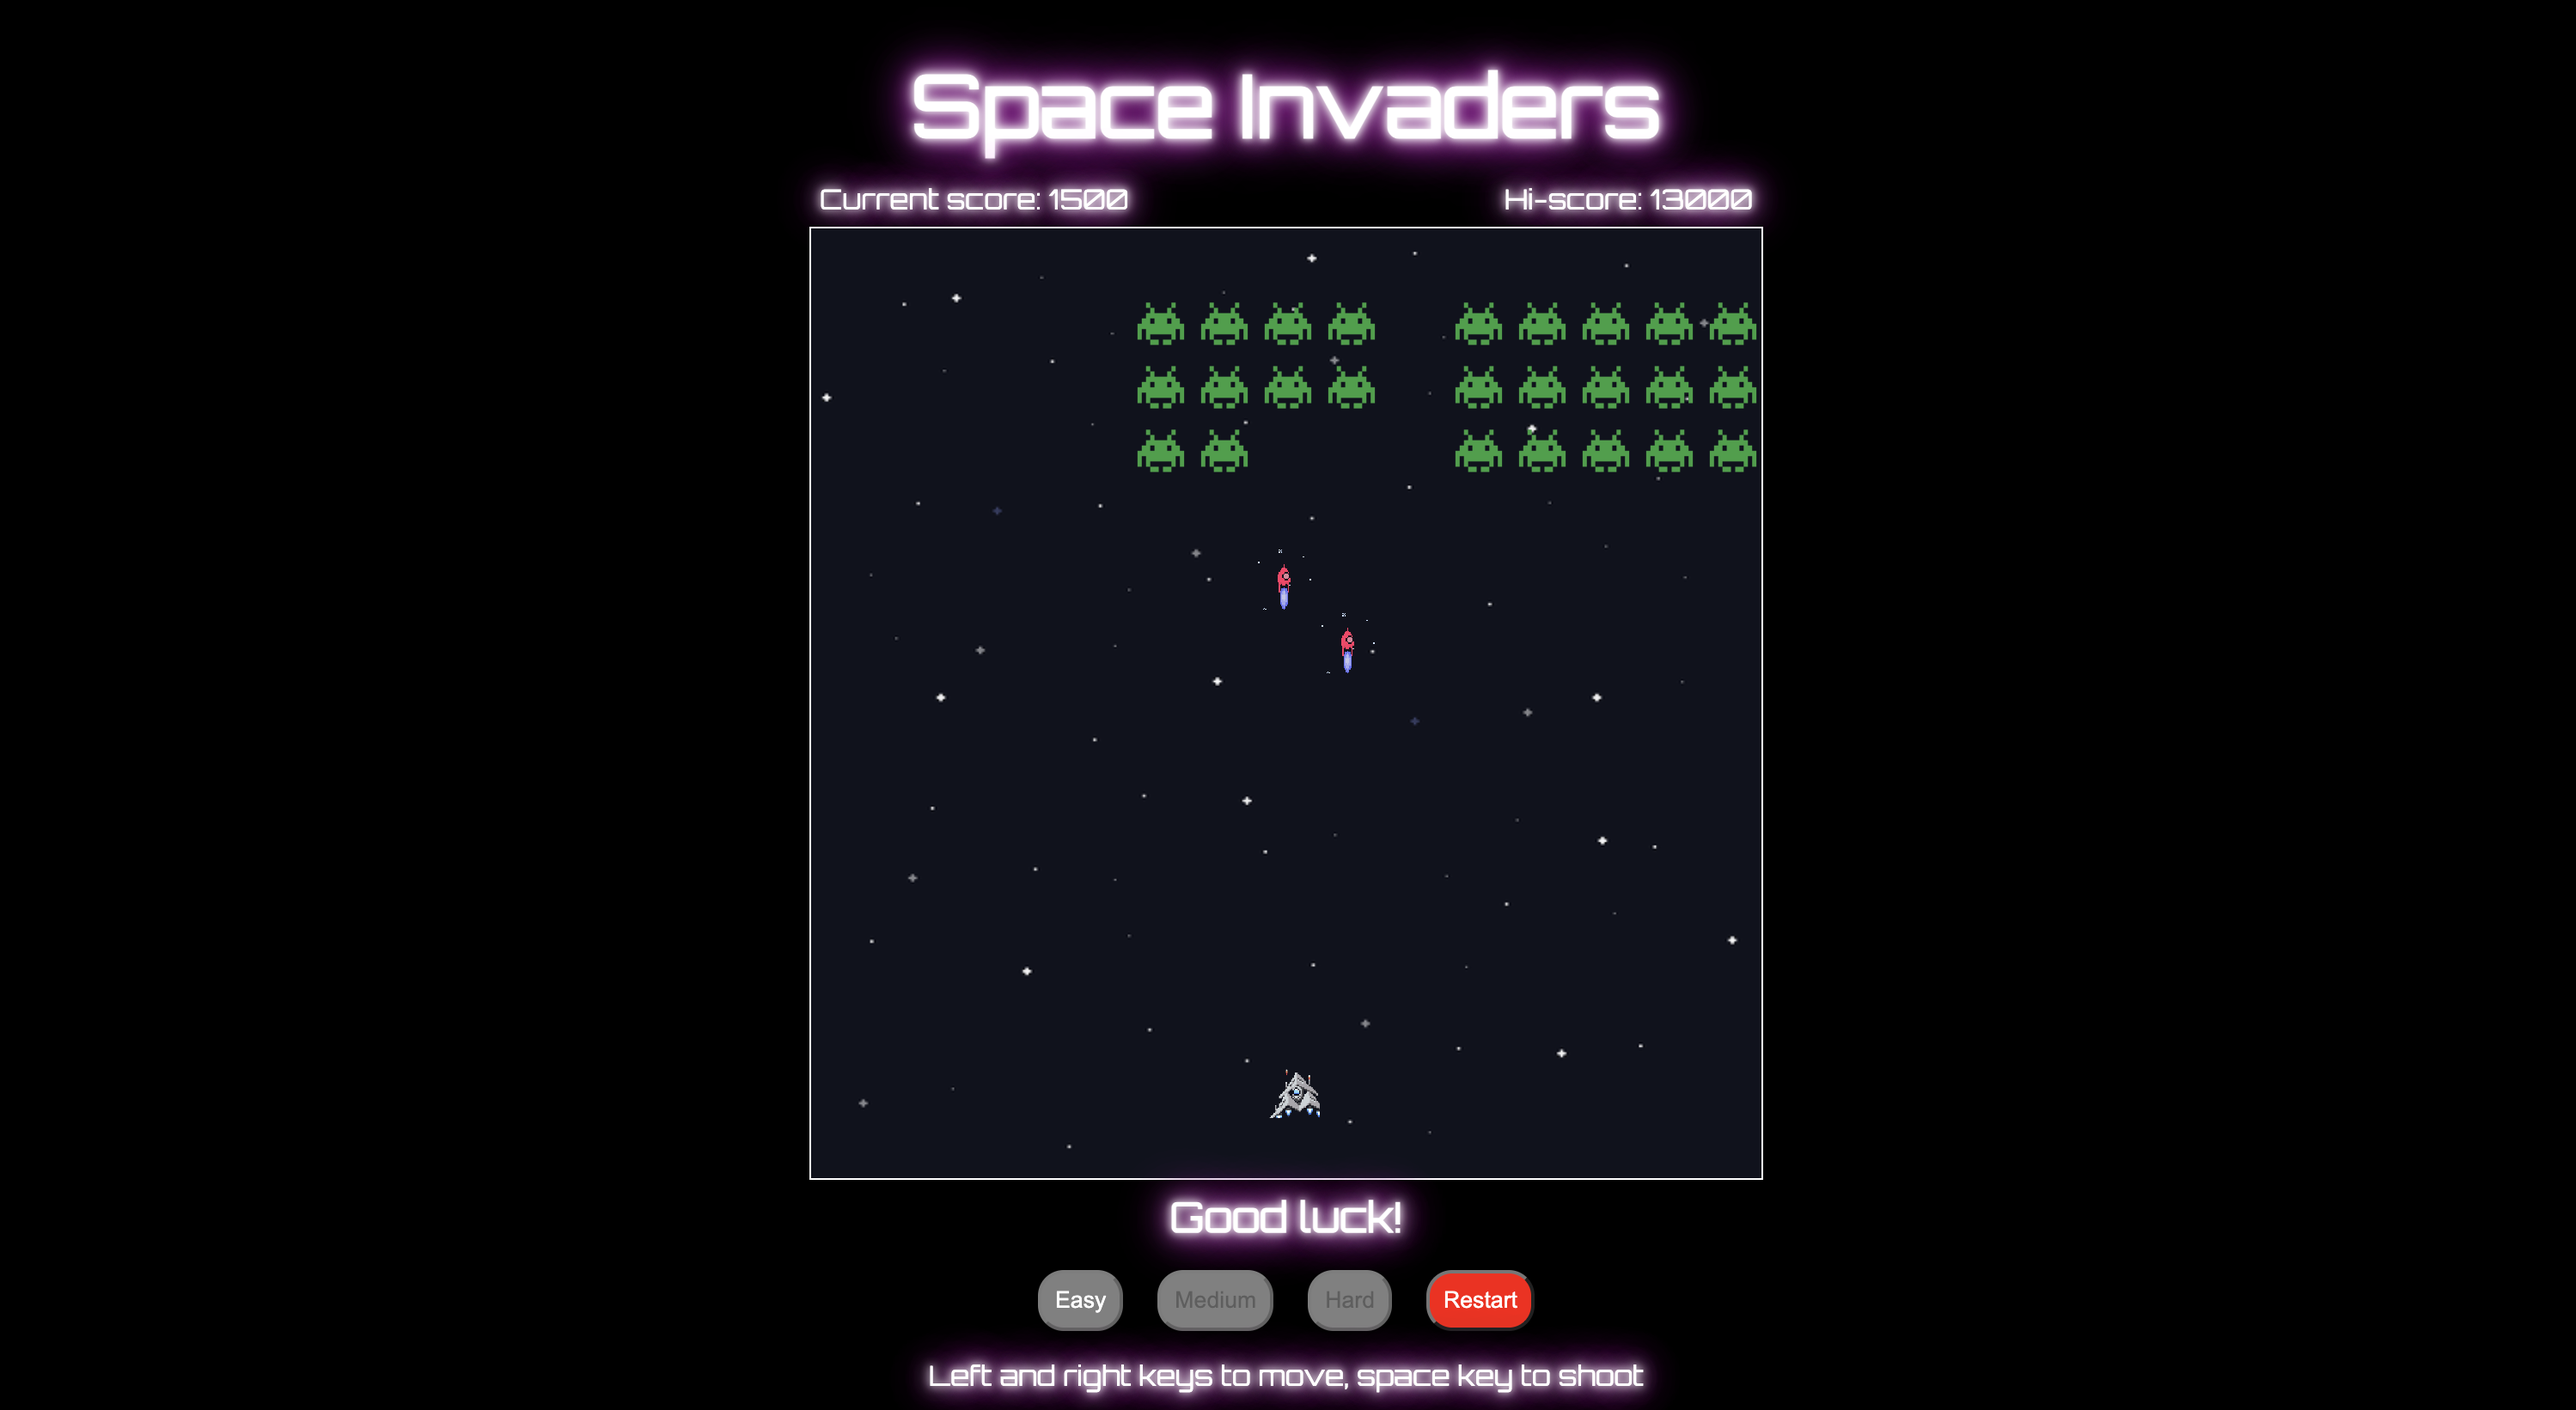
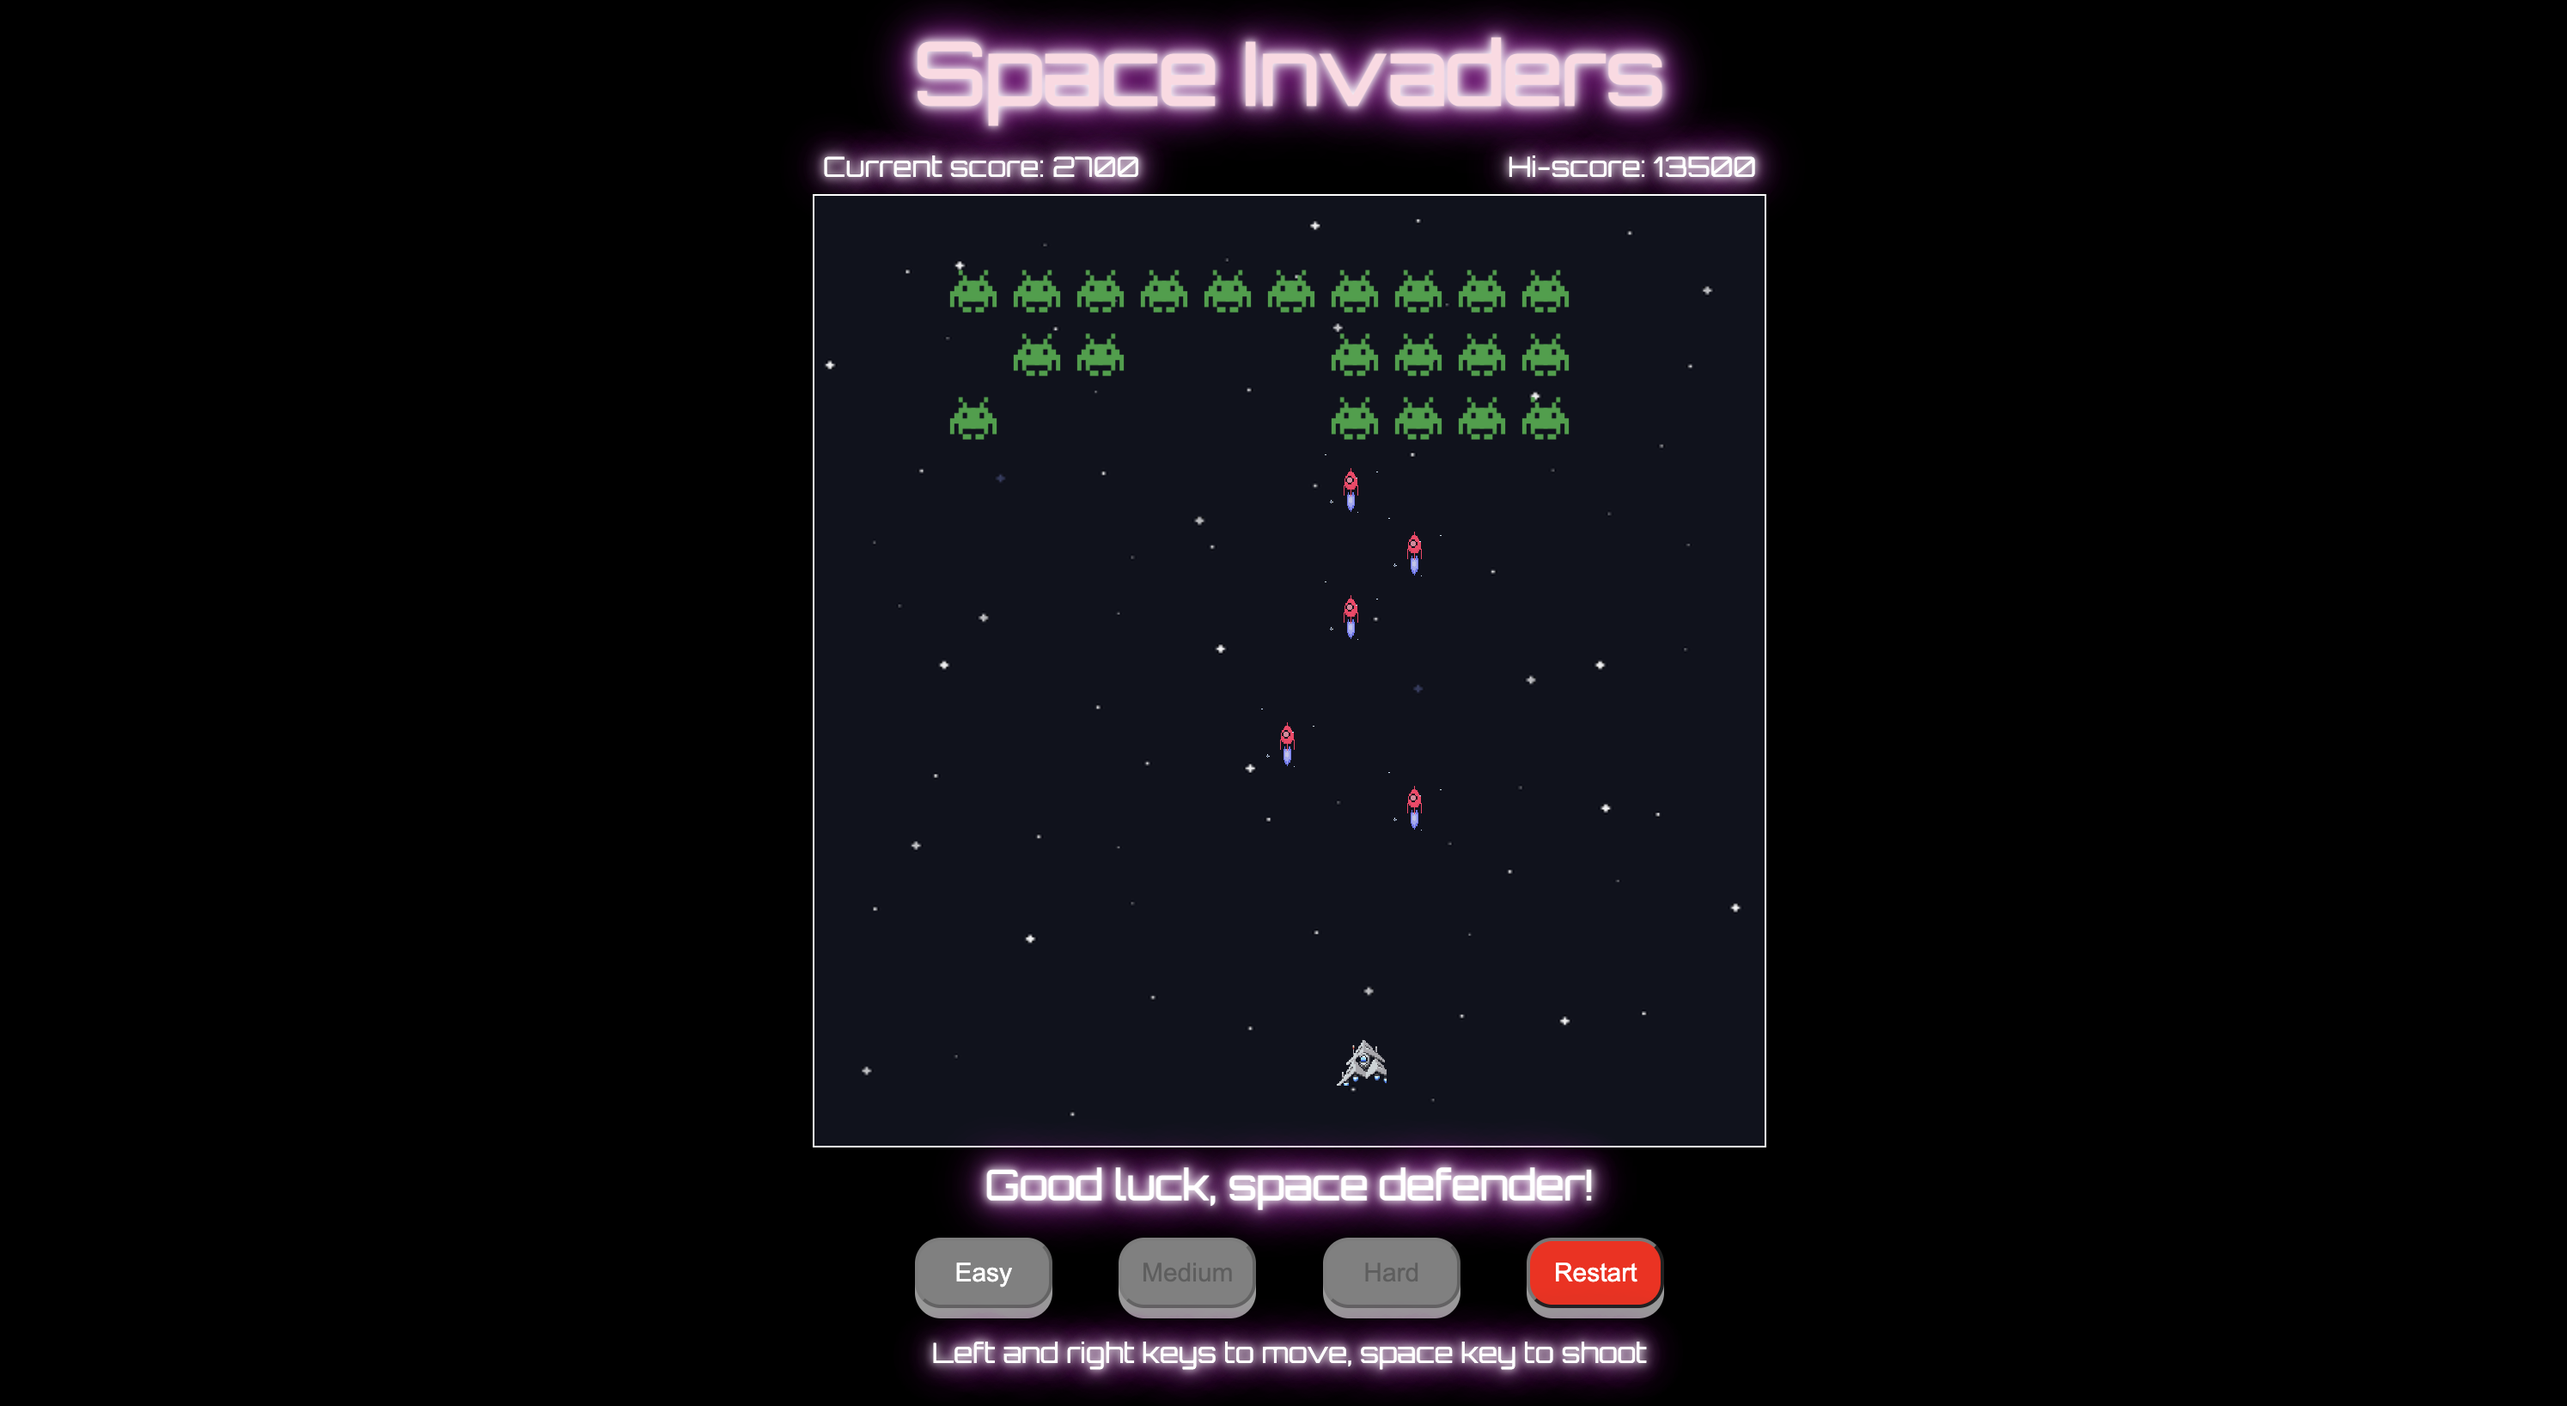
update gameplay pictures in readme

Changed region(s): [[0.3112, 0.0, 0.7159, 1.0], [0.498, 0.4362, 0.5291, 0.4673]]

diff --git a/main.js b/main.js
@@ -175,7 +175,7 @@ function reset() {
 }
 
 function handleClick(evt) {
-    infoEl.textContent = "Good luck!"
+    infoEl.textContent = "Good luck, space defender!"
     interval = convertProp[evt.target.innerText.toLowerCase()]
     difficulty=evt.target.innerText.toLowerCase()
     init()
